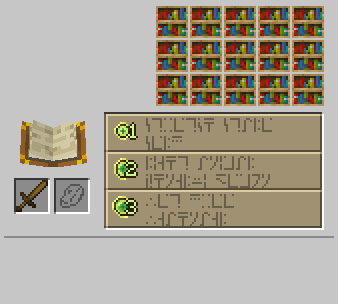
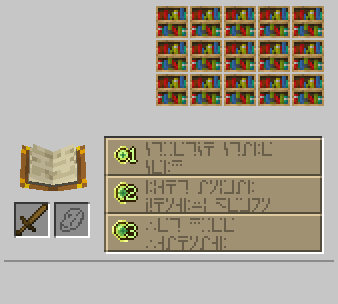
Re-added ability to directly enter player seed (#242)

Changed region(s): [[0.0, 0.3553, 1.0, 0.8882]]

diff --git a/src/enchcracker/EnchCrackerWindow.java b/src/enchcracker/EnchCrackerWindow.java
@@ -62,7 +62,6 @@ public class EnchCrackerWindow extends StyledFrameMinecraft {
 	private JTextField levelTextField;
 
 	private long playerSeed;
-	private boolean foundPlayerSeed = false;
 
 	private JLabel outDrop, outBook, outSlot;
 	private Versions mcVersion = Versions.latest();
@@ -251,6 +250,20 @@ public class EnchCrackerWindow extends StyledFrameMinecraft {
 				super.replace(fb, offset, length, string, attr);
 			}
 		};
+		DocumentFilter hexFilter12 = new DocumentFilter() {
+			@Override
+			public void insertString(FilterBypass fb, int offset, String string, AttributeSet attr) throws BadLocationException {
+				if (!string.matches("[\\da-fA-F]*")) return;
+				if (fb.getDocument().getLength() + string.length() > 12) return;
+				super.insertString(fb, offset, string, attr);
+			}
+			@Override
+			public void replace(FilterBypass fb, int offset, int length, String string, AttributeSet attr) throws BadLocationException {
+				if (!string.matches("[\\da-fA-F]*")) return;
+				if (fb.getDocument().getLength() - length + string.length() > 12) return;
+				super.replace(fb, offset, length, string, attr);
+			}
+		};
 
 		bookshelvesTextField = new FixedTextField();
 		bookshelvesTextField.setFont(MCFont.standardFont);
@@ -263,21 +276,21 @@ public class EnchCrackerWindow extends StyledFrameMinecraft {
 		slot1TextField.setFont(MCFont.standardFont);
 		((PlainDocument)slot1TextField.getDocument()).setDocumentFilter(numberFilter);
 		findSeedPanel.add(slot1TextField);
-		slot1TextField.setBounds(290, 130, 30, 20);
+		slot1TextField.setBounds(290, 154, 30, 20);
 		slot1TextField.setToolTipText(translate("enchCrack.xpCost1.tooltip"));
 
 		slot2TextField = new FixedTextField();
 		slot2TextField.setFont(MCFont.standardFont);
 		((PlainDocument)slot2TextField.getDocument()).setDocumentFilter(numberFilter);
 		findSeedPanel.add(slot2TextField);
-		slot2TextField.setBounds(290, 168, 30, 20);
+		slot2TextField.setBounds(290, 192, 30, 20);
 		slot2TextField.setToolTipText(translate("enchCrack.xpCost2.tooltip"));
 
 		slot3TextField = new FixedTextField();
 		slot3TextField.setFont(MCFont.standardFont);
 		((PlainDocument)slot3TextField.getDocument()).setDocumentFilter(numberFilter);
 		findSeedPanel.add(slot3TextField);
-		slot3TextField.setBounds(290, 206, 30, 20);
+		slot3TextField.setBounds(290, 230, 30, 20);
 		slot3TextField.setToolTipText(translate("enchCrack.xpCost3.tooltip"));
 
 		progressBar.setToolTipText(translate("enchCrack.check.tooltip"));
@@ -428,6 +441,7 @@ public class EnchCrackerWindow extends StyledFrameMinecraft {
 			});
 		});
 		ProgressButton btnCalculate = new ProgressButton("button");
+		JTextField playerSeed = new JTextField();
 
 		JButton btnResetCracker = new ProgressButton("button");
 		btnResetCracker.setText(translate("enchCrack.reset"));
@@ -497,15 +511,14 @@ public class EnchCrackerWindow extends StyledFrameMinecraft {
 			found = false;
 			for (int seed1Low = 0; seed1Low < 65536; seed1Low++) {
 				if ((((seed1High | seed1Low) * 0x5deece66dL + 0xb) & 0x0000_ffff_ffff_0000L) == seed2High) {
-					playerSeed = ((seed1High | seed1Low) * 0x5deece66dL + 0xb) & 0x0000_ffff_ffff_ffffL;
-					foundPlayerSeed = true;
+					playerSeed.setText(String.format("%12X", ((seed1High | seed1Low) * 0x5deece66dL + 0xb) & 0x0000_ffff_ffff_ffffL));
 					found = true;
 					break;
 				}
 			}
 			if (found) {
-				Log.info("Played seed calculated as " + Long.toHexString(playerSeed));
-				btnCalculate.setText(String.format("%012X", playerSeed));
+				Log.info("Played seed calculated as " + playerSeed.getText());
+				btnCalculate.setText("Success!");
 				btnCalculate.setProgress(Float.POSITIVE_INFINITY);
 			} else {
 				Log.info("No player seed found");
@@ -515,6 +528,11 @@ public class EnchCrackerWindow extends StyledFrameMinecraft {
 		});
 		btnCalculate.setBounds(0, 84, 152, 22);
 		findSeedPanel.add(btnCalculate);
+
+		playerSeed.setFont(MCFont.standardFont);
+		playerSeed.setBounds(0, 110, 152, 22);
+		((PlainDocument)playerSeed.getDocument()).setDocumentFilter(hexFilter12);
+		findSeedPanel.add(playerSeed);
 
 		// --- Enchantment Calculator section
 
@@ -677,11 +695,11 @@ public class EnchCrackerWindow extends StyledFrameMinecraft {
 		ProgressButton btnDone = new ProgressButton("button");
 		findEnchantment.addActionListener(event -> {
 			findEnchantment.setProgress(-1);
-			if (!foundPlayerSeed) {
+			if (playerSeed.getText().isEmpty()) {
 				JOptionPane.showMessageDialog(this, translate("enchCalc.playerSeedNotFound"), translate("program.name"), JOptionPane.INFORMATION_MESSAGE);
 				return;
 			}
-			long seed = playerSeed;
+			long seed = Long.valueOf(playerSeed.getText(), 16);
 			if (itemToEnch[0] == null) return;
 			int maxShelvesVal = 0;
 			try {
@@ -841,18 +859,19 @@ public class EnchCrackerWindow extends StyledFrameMinecraft {
 				// nothing happened, since it was impossible anyway
 				return;
 			}
+			long curSeed = Long.valueOf(playerSeed.getText(), 16);
 			if (timesNeeded != -1) {
 				// items thrown
 				for (int i = 0; i < timesNeeded; i++) {
 					for (int j = 0; j < 4; j++) {
-						playerSeed = (playerSeed * 0x5deece66dL + 0xb) & 0x0000_ffff_ffff_ffffL;
+						curSeed = (curSeed * 0x5deece66dL + 0xb) & 0x0000_ffff_ffff_ffffL;
 					}
 				}
 				// dummy enchantment
-				playerSeed = (playerSeed * 0x5deece66dL + 0xb) & 0x0000_ffff_ffff_ffffL;
+				curSeed = (curSeed * 0x5deece66dL + 0xb) & 0x0000_ffff_ffff_ffffL;
 			}
 			// actual enchantment
-			playerSeed = (playerSeed * 0x5deece66dL + 0xb) & 0x0000_ffff_ffff_ffffL;
+			curSeed = (curSeed * 0x5deece66dL + 0xb) & 0x0000_ffff_ffff_ffffL;
 
 			try {
 				int playerLevel = Integer.parseInt(levelTextField.getText());
@@ -864,6 +883,7 @@ public class EnchCrackerWindow extends StyledFrameMinecraft {
 			} catch (NumberFormatException e) {
 				Log.info("Could not update player level text");
 			}
+			playerSeed.setText(String.format("%12X", curSeed));
 			timesNeeded = -2;
 			outDrop.setText("-");
 			outBook.setText("-");
